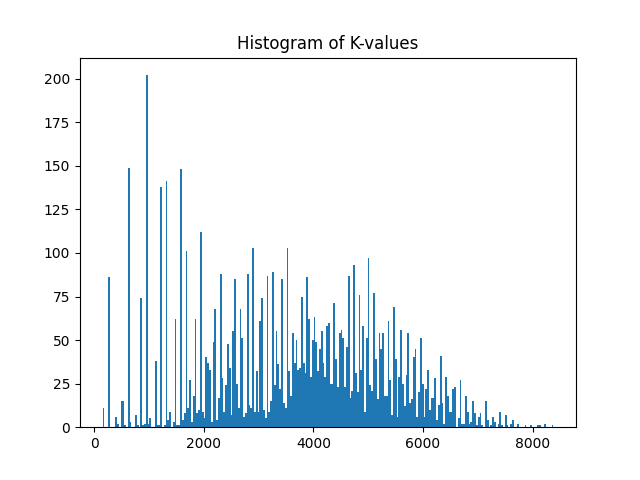
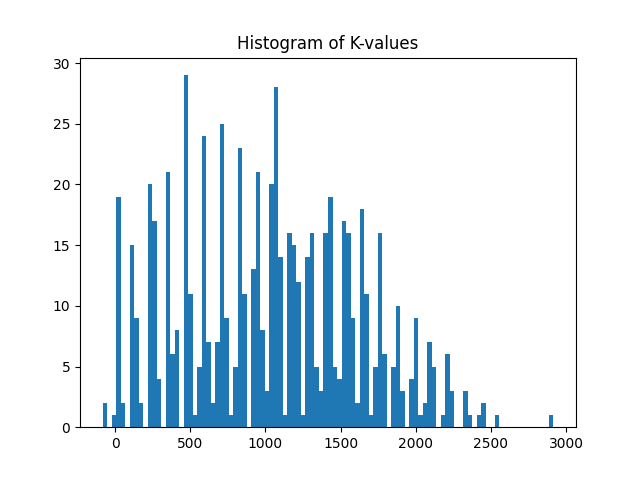
the whole of the Netherlands can now also be loaded and used

diff --git a/main_functions.py b/main_functions.py
@@ -14,15 +14,16 @@ class Main:
         """        
         self.K_values = []
         self.highest_K = 0
-        self.iterations = 1000
+        self.iterations = 100
 
-    def algorithm_and_region(self):
-        """This method asks the user to fill in the algorithm and region
+    def user_input(self):
+        """This method asks the user to fill in the algorithm, region,
+        and the max trajectories to be used in a railmap
         """
         # retrieve existing algorithm
         self.algorithm = input("\nWhich algorithm?\n")
 
-        # tot nu toe alleen nog maar baseline
+        # choose between all our algorithms
         while self.algorithm not in ["baseline", "hill climber", "beam"]:
             self.algorithm = \
             input("Please provide an algortihm in the command line.\n\
@@ -34,7 +35,7 @@ class Main:
         # retrieve region
         self.region = input("\nWhich region?\n")
 
-        # Holland of Nederland
+        # Holland or Nederland
         while self.region != "Holland" and self.region != "Nederland":
             self.region = \
             input("\nChoose a region: Holland or Nederland (case-sensitive).\n")
@@ -43,12 +44,13 @@ class Main:
         self.max = int(input("\nWhat is the maximum of trajectories?\n"))
 
         # must be between 1 and 7
-        while self.max < 1 or self.max > 7:
+        while self.max < 1 or self.max > 15:
             self.max = \
-        int(input("\nMaximum number of trajectories must be between 1 and 7.\n"))
+        int(input("\nMaximum number of trajectories must be between 1 and 15.\n"))
 
+        # let the user know the algorithm is running
         print(f"\nUsing {self.algorithm} algorithm in {self.region} \
-        {self.iterations} times...")
+{self.iterations} times...")
 
     def beam(self):
         test = IDS(self.max, self.region)
@@ -81,8 +83,8 @@ class Main:
                     self.highest_K = K_value
                     self.best_rail = rail
     
-    def hill_climber(self):
-        for i in range(0, self.iterations):
+    # def hill_climber(self):
+    #     for i in range(0, self.iterations):
 
     def visualisation(self):
         """This method carries out the visualisation.

diff --git a/code/visual/visual.py b/code/visual/visual.py
@@ -78,8 +78,12 @@ class Visualisation:
 
         # make separate list of all the different sizes for plotting
         self.sizes = []
-        for station in self.size_of_station:
-            self.sizes.append((self.size_of_station[station] + 1) ** 4)
+        if self.region == "Holland":
+            for station in self.size_of_station:
+                self.sizes.append((self.size_of_station[station] + 1) ** 4)
+        else:
+            for station in self.size_of_station:
+                self.sizes.append(self.size_of_station[station] ** 2)
 
     def get_connections(self):
         # for each trajectory, create a list that saves the name of the
@@ -121,7 +125,10 @@ class Visualisation:
         """
         plt.figure()
         plt.title("Histogram of K-values")
-        plt.hist(K_values, int(iterations / 4))
+        if iterations > 400:
+            plt.hist(K_values, int(iterations / 4))
+        else:
+            plt.hist(K_values, int(iterations))
         plt.savefig("histogram.png")
         plt.show()
         plt.clf()

diff --git a/code/algorithms/baseline.py b/code/algorithms/baseline.py
@@ -80,7 +80,10 @@ class Baseline:
                     connection = parts[1]
                 except(IndexError):
                     break
-                time = int(parts[2].strip("\n"))
+                if "Holland" in filename:
+                    time = int(parts[2].strip("\n"))
+                else:
+                    time = int(parts[2].strip(".0\n"))
 
                 # add connection to connection list in Station class,
                 # and the list of all connections,

diff --git a/code/algorithms/iterativedeepening.py b/code/algorithms/iterativedeepening.py
@@ -75,7 +75,10 @@ class IDS:
                     connection = parts[1]
                 except(IndexError):
                     break
-                time = int(parts[2].strip("\n"))
+                if "Holland" in filename:
+                    time = int(parts[2].strip("\n"))
+                else:
+                    time = int(parts[2].strip(".0\n"))
 
                 # add connection to connection list in Station class,
                 # and the list of all connections,

diff --git a/main.py b/main.py
@@ -3,7 +3,7 @@ from main_functions import Main
 if __name__ == "__main__":
     main = Main()
     # retrieve input from user
-    main.algorithm_and_region()
+    main.user_input()
 
     # execution of baseline algorithm
     if main.algorithm == "baseline":
@@ -17,7 +17,7 @@ if __name__ == "__main__":
         main.hill_climber()
         main.visualisation()
         
-    if main.algorithm == "beam"
+    if main.algorithm == "beam":
         #testen
         main.beam()
     
